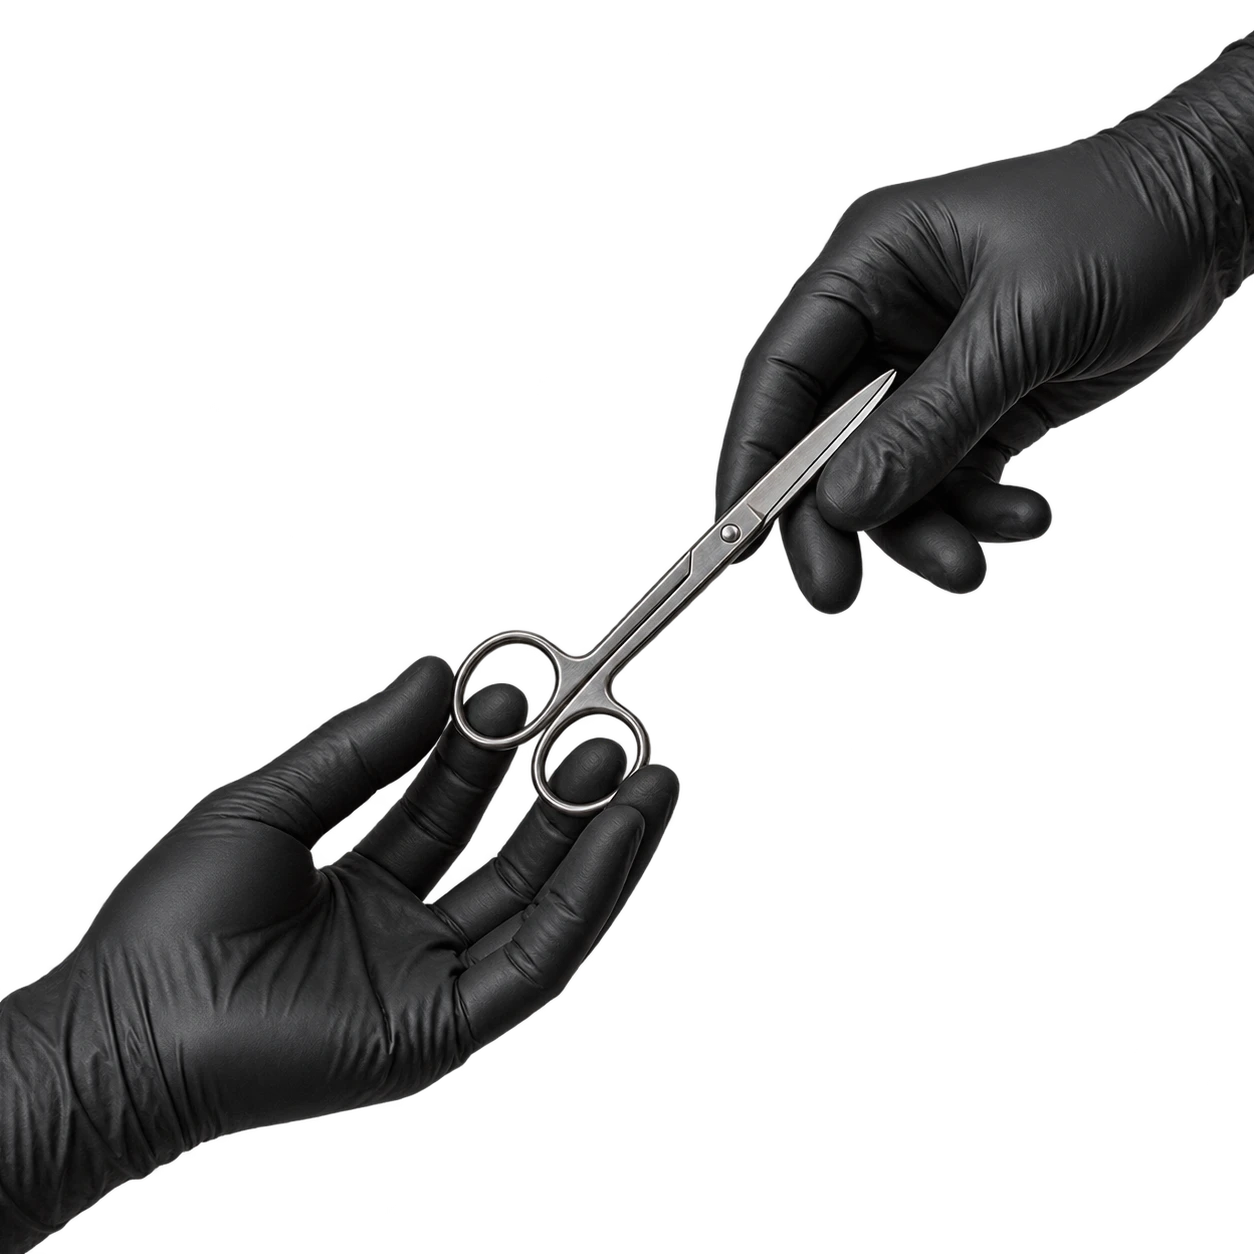
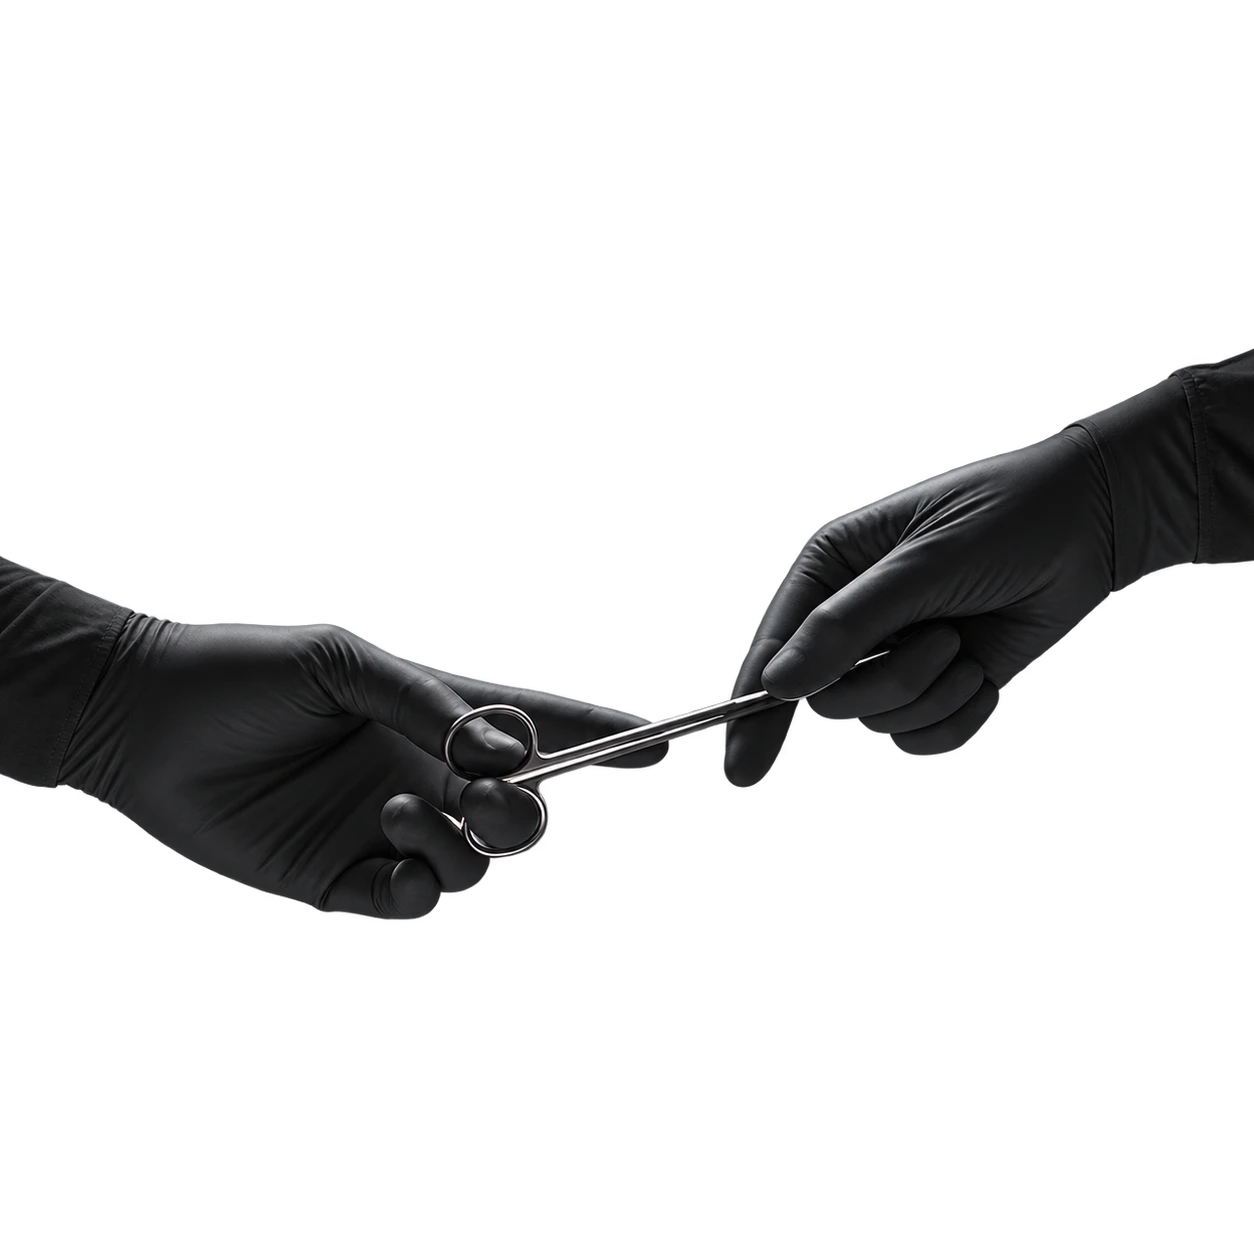
Ajusta tesoura à referência com luvas pretas e sem desvanecimento

diff --git a/src/styles/planos-editoriais.css b/src/styles/planos-editoriais.css
@@ -3,6 +3,8 @@
    símbolo amarelo atrás, fotografia no meio, nome do plano à frente. */
 .plano-editorial { position: relative; overflow: hidden; pointer-events: none; }
 .plano-editorial .plano-editorial__foto { position: relative; z-index: 2; display: block; width: 100%; height: 100%; object-fit: contain; opacity: 1; mask-image: radial-gradient(ellipse at center, #000 40%, transparent 74%); }
+/* A troca da tesoura preserva a silhueta inteira da referência, sem desvanecer. */
+.plano-editorial--scale .plano-editorial__foto { mask-image: none; }
 .plano-editorial__simbolo { position: absolute; inset: 0; z-index: 1; background: var(--destaque); mask: var(--simbolo) center / contain no-repeat; }
 html[data-planos-tema="claro"] .plano-editorial { display: none; }
 /* Cor limitada aos planos: a introdução mantém o papel e o grafite. */

diff --git a/docs/04-design/planos-editoriais-teste.md b/docs/04-design/planos-editoriais-teste.md
@@ -26,11 +26,15 @@ Prompt final:
 
 Asset: `public/imagens/planos-editoriais/tesoura.webp`.
 
-Original: `/Users/lenoravitorino/.codex/generated_images/01a0f7a0-9088-77f3-9efb-dbe962d52bf8/exec-1e8486cb-9247-47ea-b040-3e2966039e73.png`.
+Revisão: edição direta da referência enviada pela usuária, com luvas pretas e recorte transparente. Mantém o gesto horizontal da entrega. Aplicação em Scale com `opacity: 1` e sem máscara de desvanecimento nas duas versões.
+
+Referência: `/var/folders/f3/2x5sz53x3gbbnvjpqz48wpxc0000gn/T/codex-clipboard-2689b730-d759-43a7-872b-34809b9106ff.png`.
+
+Original editado com image_gen nativo (sem CLI): `/Users/lenoravitorino/.codex/generated_images/01a0f7a0-9088-77f3-9efb-dbe962d52bf8/exec-9cda38a3-f355-4f5a-bfdf-db702656f31c.png`.
 
 Prompt final:
 
-> Use case: ads-marketing. Create a premium editorial photographic transparent cutout for a high-end medical website. Two anatomically realistic adult hands wearing matte BLACK nitrile medical gloves emerge from opposite sides, passing a single closed stainless steel surgical scissors. Receiving hand at lower left palm upward with fingers gently holding the two finger rings; donor hand at upper right delicately holding near the closed blades. Surgical scissors with two distinct circular finger loops, one hinge and slim silver blades, clearly recognizable. Elegant diagonal gesture, centered square composition, hands and instrument occupy most of the middle of the frame with ample margins. Black gloves with natural fine wrinkles and restrained silver highlights, realistic studio photography, soft directional light with enough exposure to read against charcoal. Genuine transparent alpha background. Only two black-gloved hands and one scissors, no face, no patient, no blood, no blue or white gloves, no extra fingers, no text, no logos, no decorative graphics, no glow. Standalone photographic cutout, not a website or poster.
+> Edit the supplied photograph directly, preserving the EXACT pose, silhouette, finger positions, proportions, camera viewpoint, instrument, and relationship of the two hands. Do not invent a different handoff. Left hand enters horizontally from the left, palm partly facing viewer, fingers curled around the scissors rings. Right hand enters from upper right, back of hand facing viewer, holding the SAME slim instrument near its tip. Preserve the shallow nearly horizontal angle of the scissors, NOT a steep diagonal. Change only the white medical gloves to realistic matte BLACK nitrile gloves, retaining all folds and directional studio highlights, and make visible blue sleeve cuffs black as well. Remove the black background to genuine transparent alpha so this can overlay a website symbol. The hands and scissors themselves must be fully opaque, alpha 100%, no fading or translucent edges except normal antialiasing. Preserve full source hand shapes, do not add fingers or objects. Crop excess empty space above and below into a square transparent canvas without changing the original handoff geometry: both wrists still meet opposite left and right canvas edges, the scissors transfer is centered. Photorealistic surgical editorial photo, no text, no logos, no extra graphics. Fidelity to the supplied image is the priority.
 
 ## modelo-dentario
 
